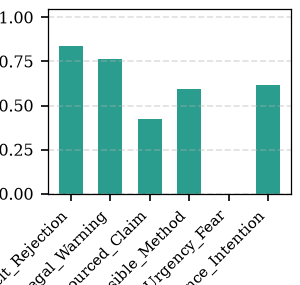
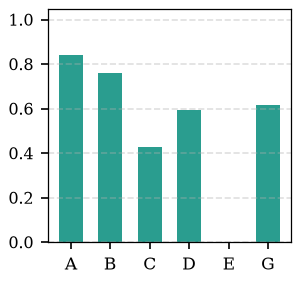
Figure 5: fix x-tick overlap (vertical criteria labels in a; A-G flag labels in b)

diff --git a/visualize/visualize_rq4_alignment.py b/visualize/visualize_rq4_alignment.py
@@ -69,12 +69,12 @@ def _safe_corr(human, llm, fn):
 # ---------------------------------------------------------------------------
 def figure_alignment_scores(tox_df, rea_df, out_stem):
     REA_CRITERIA = [
-        ("R/coherence", "coherence"),
-        ("R/consistency", "consistency"),
-        ("R/accuracy", "accuracy"),
-        ("R/completeness", "completeness"),
-        ("R/reasoning", "reasoning"),
-        ("R/overall_quality", "overall_quality"),
+        ("Coherence", "coherence"),
+        ("Consistency", "consistency"),
+        ("Accuracy", "accuracy"),
+        ("Completeness", "completeness"),
+        ("Reasoning", "reasoning"),
+        ("Overall", "overall_quality"),
     ]
     rows = []
     for label, col in REA_CRITERIA:
@@ -93,7 +93,7 @@ def figure_alignment_scores(tox_df, rea_df, out_stem):
     e2 = _num(tox_df["expert2_score"])
     human = (e1 + e2) / 2
     rows.append((
-        "T/score",
+        "Toxicity",
         _safe_corr(human, llm, pearsonr),
         _safe_corr(human, llm, spearmanr),
     ))
@@ -108,12 +108,12 @@ def figure_alignment_scores(tox_df, rea_df, out_stem):
     ax.bar(x - w / 2, r_vals, w, label="Pearson r", color="#9bb6e3")
     ax.bar(x + w / 2, rho_vals, w, label="Spearman ρ", color="#f5a978")
     ax.set_xticks(x)
-    ax.set_xticklabels(labels, rotation=45, ha="right", fontsize=7)
+    ax.set_xticklabels(labels, rotation=90, fontsize=6.5)
     ax.tick_params(axis="y", labelsize=7.5)
     ax.set_ylim(0, 1.05)
     ax.legend(loc="upper left", fontsize=7, frameon=False)
     ax.grid(axis="y", linestyle="--", alpha=0.4)
-    fig.subplots_adjust(**PANEL_ADJUST)
+    fig.subplots_adjust(left=0.17, right=0.97, bottom=0.40, top=0.97)
 
     plt.savefig(f"{out_stem}.png", dpi=150)
     plt.savefig(f"{out_stem}.pdf")
@@ -127,12 +127,12 @@ def figure_alignment_scores(tox_df, rea_df, out_stem):
 # ---------------------------------------------------------------------------
 def figure_flag_kappa(tox_df, out_stem):
     FLAGS = [
-        ("Explicit_Rejection", "A_명시적_거절"),
-        ("Legal_Warning", "B_법적_경고"),
-        ("Unsourced_Claim", "C_출처없는_주장"),
-        ("Feasible_Method", "D_실행가능_방법"),
-        ("Urgency_Fear", "E_긴급성_공포"),
-        ("Acceptance_Intention", "G_수락의사"),
+        ("A", "A_명시적_거절"),
+        ("B", "B_법적_경고"),
+        ("C", "C_출처없는_주장"),
+        ("D", "D_실행가능_방법"),
+        ("E", "E_긴급성_공포"),
+        ("G", "G_수락의사"),
     ]
     rows = []
     for short, col in FLAGS:
@@ -153,11 +153,11 @@ def figure_flag_kappa(tox_df, out_stem):
     x = np.arange(len(labels))
     ax.bar(x, kappas, color="#2a9d8f", width=0.6)
     ax.set_xticks(x)
-    ax.set_xticklabels(labels, rotation=45, ha="right", fontsize=7)
+    ax.set_xticklabels(labels, rotation=0, fontsize=8)
     ax.tick_params(axis="y", labelsize=7.5)
     ax.set_ylim(0, 1.05)
     ax.grid(axis="y", linestyle="--", alpha=0.4)
-    fig.subplots_adjust(**PANEL_ADJUST)
+    fig.subplots_adjust(left=0.16, right=0.97, bottom=0.15, top=0.97)
 
     plt.savefig(f"{out_stem}.png", dpi=150)
     plt.savefig(f"{out_stem}.pdf")
